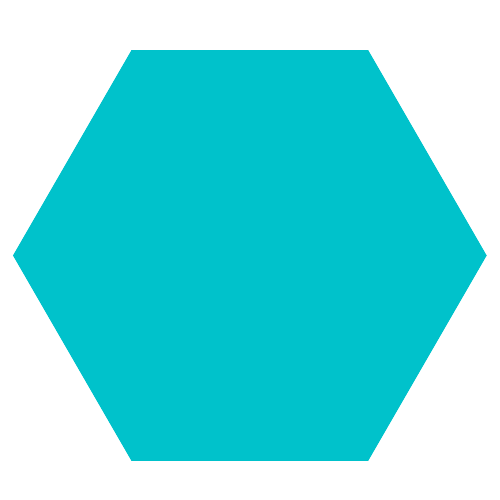
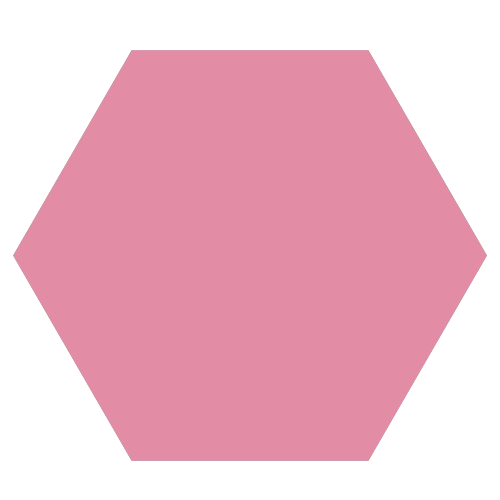
change color theme to pink & minor fixes

diff --git a/src/components/pages/Contact.tsx b/src/components/pages/Contact.tsx
@@ -23,96 +23,99 @@ function Contact() {
         id="contact-container"
         container
         justifyContent="center"
-        style={{ height: "100%" }}
+        alignContent="center"
+        style={{ height: "100%"}}
       >
 
         {/* headline */}
-        <Grid item xs={12}>
+        <Grid item xs={12} style={{marginBottom: '50px'}}>
           <Typography align="center" variant="h5">CONTACT</Typography>
         </Grid>
 
 
-        {/* embedded google maps position */}
-
-        <Grid 
-          item 
-          container 
-          justifyContent="center"
-        >
-          <iframe 
-            src="https://www.google.com/maps/embed?pb=!1m18!1m12!1m3!1d165800.1932743059!2d17.922868951749894!3d59.37358234721916!2m3!1f0!2f0!3f0!3m2!1i1024!2i768!4f13.1!3m3!1m2!1s0x465fa19236619271%3A0x288239ab1520271!2sJ%C3%A4rf%C3%A4lla%20Municipality!5e0!3m2!1sen!2sse!4v1627914778450!5m2!1sen!2sse"
-            title="google maps Stockholm embeded"  
-            style={{border:0, width: "100%"}} 
-            loading="lazy"
-          />
-        </Grid>
-
-        
-        {/* address */}
-        <Grid 
+        <Grid
           item 
           xs={12}
           container 
           justifyContent="flex-start"
           alignItems="center"
+          rowGap={1}
         >
-          <FontAwesomeIcon
-            className="tertiary" 
-            size="1x" 
-            icon={faMap} 
-          />
-            &nbsp; Adress: &nbsp; Stockholm, Sweden
-        </Grid>
-        
 
-        {/* email */}
-        <Grid 
-          item 
-          xs={12} 
-          container 
-          justifyContent="flex-start"
-          alignItems="center"
-        >
-          <FontAwesomeIcon 
-            className="tertiary"
-            size="1x" 
-            icon={faEnvelope} 
-          />
-            &nbsp; E-mail: &nbsp; contact@paulina.tech
-        </Grid>
+          {/* linkedin */}
+          <Grid 
+            item 
+            xs={12} 
+            container 
+            justifyContent="flex-start"
+            alignItems="center"
+          >
+            <FontAwesomeIcon 
+              className="tertiary"
+              size="1x" 
+              icon={faLinkedin} 
+            />
+            &nbsp; LinkedIn: &nbsp; Paunil
+          </Grid>
 
+          {/* phone */}
+          <Grid 
+            item 
+            xs={12} 
+            container 
+            justifyContent="flex-start"
+            alignItems="center"
+          >
+            <FontAwesomeIcon className="tertiary" size="1x" icon={faPhone} />
+            &nbsp; Phone: &nbsp; (+46)725277850
+          </Grid>
 
-        {/* phone */}
-        <Grid 
-          item 
-          xs={12} 
-          container 
-          justifyContent="flex-start"
-          alignItems="center"
-        >
-          <FontAwesomeIcon 
-            className="tertiary"
-            size="1x" 
-            icon={faPhone} 
-          />
-          &nbsp; Phone: &nbsp; (+46)725277850
-        </Grid>
+          {/* email */}
+          <Grid 
+            item 
+            xs={12} 
+            container 
+            justifyContent="flex-start"
+            alignItems="center"
+          >
+            <FontAwesomeIcon 
+              className="tertiary"
+              size="1x" 
+              icon={faEnvelope} 
+            />
+              &nbsp; E-mail: &nbsp; contact@paulina.tech
+          </Grid>
 
+          {/* address */}
+          <Grid 
+            item 
+            xs={12} 
+            container 
+            justifyContent="flex-start"
+            alignItems="center"
+          >
+            <FontAwesomeIcon
+              className="tertiary" 
+              size="1x" 
+              icon={faMap} 
+            />
+              &nbsp; Adress: &nbsp; Sollentuna - Stockholm, Sweden
+          </Grid>
 
-        {/* linkedin */}
-        <Grid 
-          item 
-          xs={12} 
-          container 
-          justifyContent="flex-start"
-          alignItems="center"
-        >
-          <FontAwesomeIcon 
-            className="tertiary"
-            size="1x" 
-            icon={faLinkedin} 
-          />
-          &nbsp; LinkedIn: &nbsp; Paunil
+          {/* embedded google maps position */}
+          <Grid 
+            item 
+            container 
+            justifyContent="center"
+            style={{marginTop: '20px'}}
+          >
+            <iframe 
+              src="https://www.google.com/maps/embed?pb=!1m18!1m12!1m3!1d172013.8272433972!2d17.807816130960656!3d59.41871501682646!2m3!1f0!2f0!3f0!3m2!1i1024!2i768!4f13.1!3m3!1m2!1s0x465f98cd789e64b9%3A0x400fef341e48c60!2sSollentuna!5e0!3m2!1ssv!2sse!4v1721801981128!5m2!1ssv!2sse"
+              title="google maps Stockholm embeded"  
+              style={{border:0, width: "100%"}} 
+              loading="lazy"
+            />
+          </Grid>
         </Grid>
       </Grid>
     </Grid>

diff --git a/src/components/pages/About.tsx b/src/components/pages/About.tsx
@@ -1,0 +1,61 @@
+import Grid from '@mui/material/Grid';
+import Typography from '@mui/material/Typography';
+import '../../scss/pages/contact.scss'
+
+
+
+const style = {width:"50%", marginTop:"10%"}
+
+function About() {
+  return (
+    <Grid
+      item
+      container
+      xs={10}
+      sm={8}
+      md={4}
+      lg={4}
+      style={{ height: "100%" }}
+    >
+      <Grid
+        className="secondary"
+        id="resume-container"
+        container
+        justifyContent="center"
+        alignContent="center"
+        style={{ height: "100%" }}
+      >
+        {/* headline */}
+        <Grid item xs={12} style={{marginBottom: '50px'}}>
+          <Typography align="center" variant="h5">
+            ABOUT ME
+          </Typography>
+        </Grid>
+
+        {/* content */}
+        <Grid item xs={8}>
+          <Typography variant="subtitle2">
+            <p>Hi!</p> 
+            
+            I'm an ambitious frontend developer based in Stockholm.
+            I offer experience in web development, currently with React and TypeScript as my main tools.
+            As a person who loves design, the visual aspect is a big part for me when coding. Therefore I always strive to create user friendly and nice looking interfaces.
+            Don't hesitate to reach out if you think I would make a good fit for your team! 
+            
+            <p>// Paulina</p>
+          </Typography>
+
+          {/* image */}
+          <Grid item alignItems="center">
+            <img style={style} src="./images/about.png" alt="" />
+          </Grid>
+    
+        </Grid>
+
+      </Grid>
+
+    </Grid>
+  )
+}
+
+export default About

diff --git a/src/components/pages/Projects.tsx b/src/components/pages/Projects.tsx
@@ -14,7 +14,6 @@ const handleDragStart: DragEventHandler<HTMLImageElement> = (e) => e.preventDefa
 const style = {width:"100%"}
 
 const items = [
-  <img style={style} src="./images/blog.png" alt="" onDragStart={handleDragStart} />,
   <img style={style} src="./images/login.png" alt="" onDragStart={handleDragStart} />,
   <img style={style} src="./images/password.png" alt="" onDragStart={handleDragStart} />,
   <img style={style} src="./images/countdown.png" alt="" onDragStart={handleDragStart} />,
@@ -22,16 +21,6 @@ const items = [
 ];
 
 const projects = [
-  {
-    title: "Fictional Blog",
-    github: "https://github.com/paunil/fictional-blog",
-    website: "https://fictional-blog.paulina.tech/",
-  },
-  {
-    title: "Login Form",
-    github: "https://github.com/paunil/login-form",
-    website: "https://login-form.paulina.tech/",
-  },
   {
     title: "Password Generator",
     github: "https://github.com/paunil/password-generator",
@@ -41,6 +30,11 @@ const projects = [
     title: "Countdown Timer",
     github: "https://github.com/paunil/countdown-timer",
     website: "https://countdown-timer.paulina.tech/",
+  },
+  {
+    title: "Login Form",
+    github: "https://github.com/paunil/login-form",
+    website: "https://login-form.paulina.tech/",
   },
   {
     title: "Shape Changer",

diff --git a/src/components/App.tsx b/src/components/App.tsx
@@ -6,7 +6,7 @@ import { createTheme, responsiveFontSizes, ThemeProvider } from '@mui/material/s
 import Hidden from '@material-ui/core/Hidden'
 
 import { HamburgerButton, Navigation, DesktopMenu } from './common'
-import { Home, Videos, Projects, Resume, Contact } from './pages/'
+import { Home, About, Videos, Projects, Resume, Contact } from './pages/'
 import Particles, { initParticlesEngine } from '@tsparticles/react'
 import { MoveDirection, OutMode } from "@tsparticles/engine";
 import { loadSlim } from "@tsparticles/slim";
@@ -26,6 +26,10 @@ let theme = createTheme({
     },
     subtitle1: {
       fontWeight: 600
+    },
+    subtitle2: {
+      fontWeight: 400,
+      fontSize: '12px'
     },
     body1: {
       fontWeight: 600,
@@ -181,6 +185,7 @@ function App() {
             <Routes>
               <Route path="/" element={<HiddenHome />} />
               <Route path="/home" element={<HiddenHome />} />
+              <Route path="/about-me" element={<About />} />
               <Route path="/watch-me-code" element={<Videos />} />
               <Route path="/projects" element={<Projects />} />
               <Route path="/resume" element={<Resume />} />

diff --git a/src/components/common/MenuItem.tsx b/src/components/common/MenuItem.tsx
@@ -32,7 +32,7 @@ function MenuItem(props: {route: string, text: string}) {
       whileTap={{ scale: 0.95 }}
     >
       <Link to={props.route}>
-        <div className="text-placeholder" style={{color: location.pathname === props.route ? '#00c2cb': '#383838'}}>{props.text}</div>
+        <div className="text-placeholder" style={{color: location.pathname === props.route ? '#E38CA6': '#383838'}}>{props.text}</div>
       </Link>
     </motion.li>
   );

diff --git a/src/components/pages/Home.tsx b/src/components/pages/Home.tsx
@@ -65,7 +65,11 @@ function Home() {
           className="primary"
           href="mailto:contact@paulina.tech"
           type=""
-          style={{textTransform:"none", margin:"10% 10% 5% 10%", fontWeight:600}}
+          style={{
+            textTransform:"none", 
+            margin:"10% 10% 5% 10%", 
+            fontWeight:600,
+          }}
         >
           Email: contact@paulina.tech
         </Button>

diff --git a/src/scss/common/desktopMenu.scss b/src/scss/common/desktopMenu.scss
@@ -1,7 +1,7 @@
 .desktop-menu-item {
   color:white;
   background-size: 200% 100%;
-  background-image: linear-gradient(to right, #00c2cb 50%, #383838 50%);
+  background-image: linear-gradient(to right, #E38CA6 50%, #383838 50%);
   -webkit-transition: background-position 0.5s;
   -moz-transition: background-position 0.5s;
   transition: background-position 0.5s;

diff --git a/src/components/pages/Videos.tsx b/src/components/pages/Videos.tsx
@@ -1,5 +1,5 @@
-import Typography from '@material-ui/core/Typography'
 import Grid from '@mui/material/Grid';
+import Typography from '@mui/material/Typography';
 import { useState } from 'react'
 
 import AliceCarousel, { DotsItem } from 'react-alice-carousel'

diff --git a/src/components/pages/index.ts b/src/components/pages/index.ts
@@ -1,4 +1,5 @@
 export { default as Home } from './Home'
+export { default as About } from './About'
 export { default as Videos } from './Videos'
 export { default as Projects } from './Projects'
 export { default as Resume } from './Resume'

diff --git a/src/scss/common/colors.scss b/src/scss/common/colors.scss
@@ -1,9 +1,9 @@
 .main {
-  color: #00c2cb !important;
+  color: #E38CA6 !important;
 }
 
 .primary {
-  background-color: #00c2cb !important;
+  background-color: #E38CA6 !important;
   color: #fff !important;
 }
 

diff --git a/src/components/common/Navigation.tsx b/src/components/common/Navigation.tsx
@@ -19,6 +19,10 @@ const menuOptions = [
     text: "HOME"
   },
   {
+    route: "/about-me",
+    text: "ABOUT ME"
+  },
+  {
     route: "/watch-me-code",
     text: "WATCH ME CODE"
   },

diff --git a/src/components/common/DesktopMenu.tsx b/src/components/common/DesktopMenu.tsx
@@ -8,6 +8,10 @@ const menuOptions = [
     text: "HOME"
   },
   {
+    route: "/about-me",
+    text: "ABOUT ME"
+  },
+  {
     route: "/watch-me-code",
     text: "WATCH ME CODE"
   },
